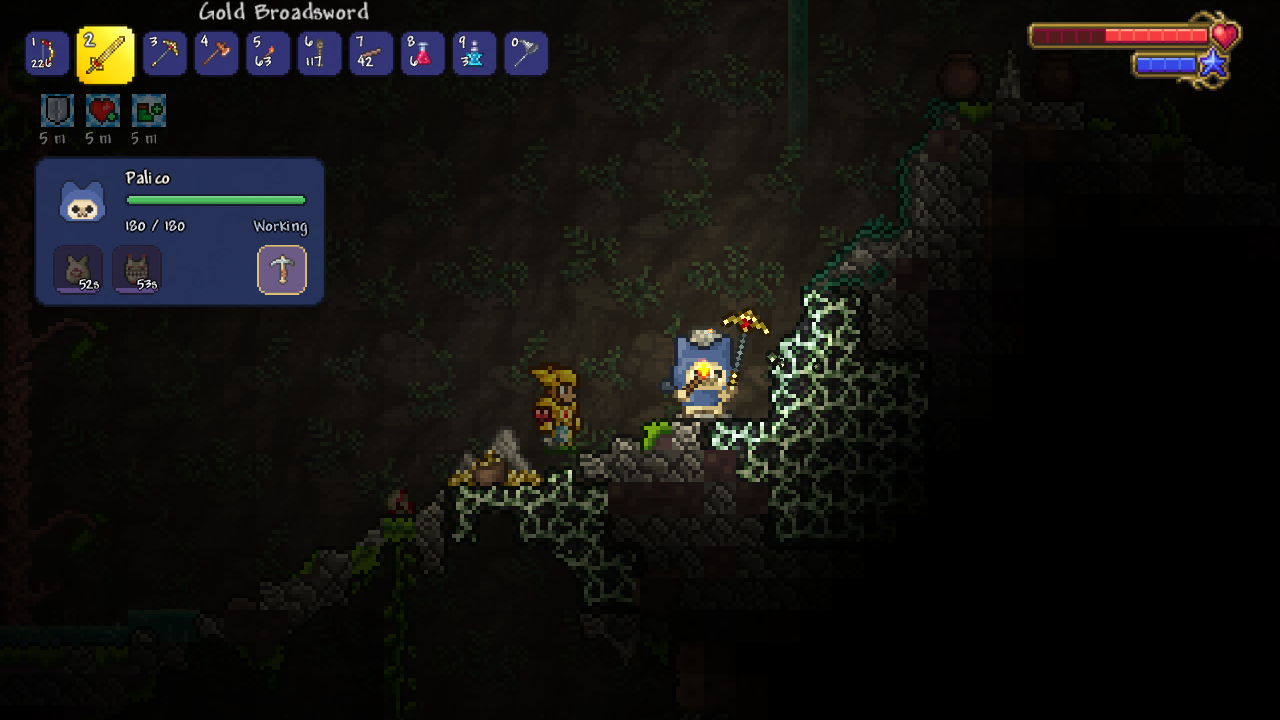
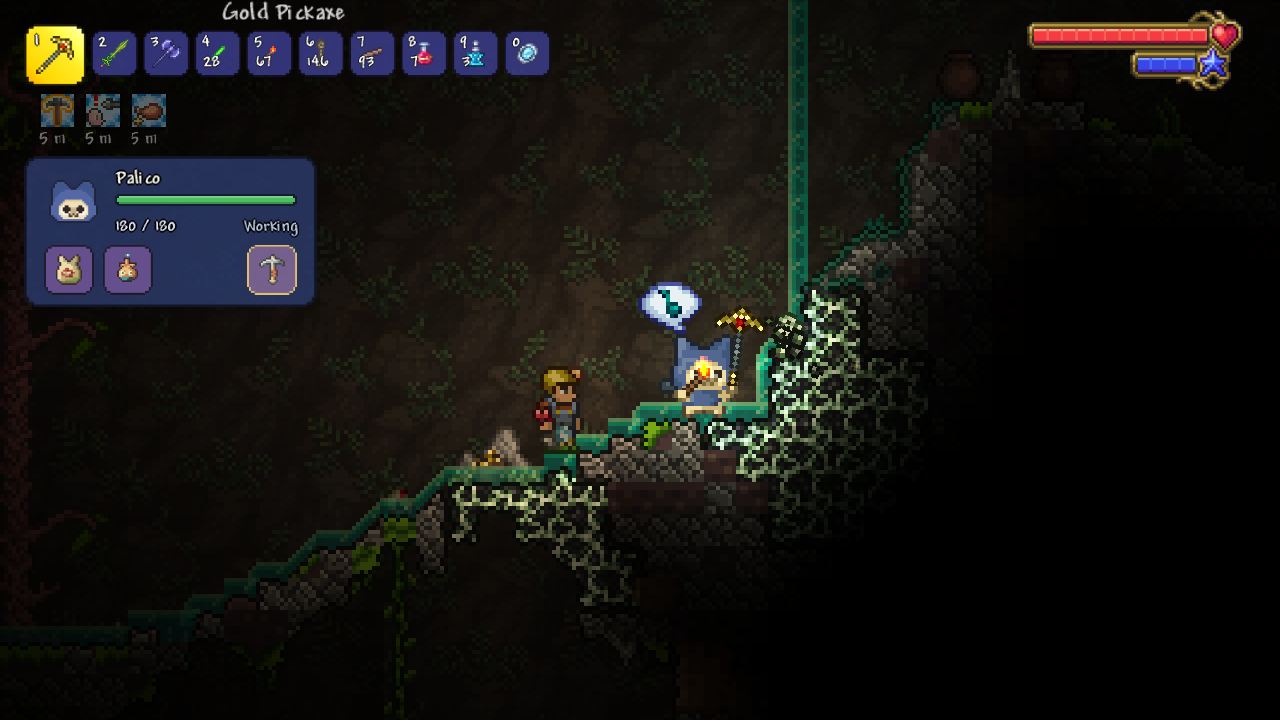
Refresh adventure screenshots in both READMEs

diff --git a/README.en.md b/README.en.md
@@ -12,9 +12,11 @@ A tModLoader mod inspired by Monster Hunter's Felynes. Give your Palico a weapon
 - **Equipment and inventory.** Save loadouts and let your companion carry supplies. Let it use selected chests to put items away alongside others of the same type and restock its supplies automatically.
 - **Your own Palico.** Choose a name, outfit color and dye. Your companion reacts to creatures and events, and remembers battles you've won together.
 
-![A player and Palico fighting together in the forest](docs/images/01-together-combat-en.png)
-
-![A Palico mining underground while holding a torch](docs/images/02-together-mining-en.png)
+| Fight side by side | Help underground |
+| --- | --- |
+| ![A player and Palico fighting together in the forest](docs/images/01-together-combat-en.png) | ![A Palico mining underground while holding a torch](docs/images/02-together-mining-en.png) |
+| **A well-earned head pat** | **A fishing trip** |
+| ![Petting your Palico at home](docs/images/03-together-petting-en.png) | ![A player and Palico fishing together by the ocean](docs/images/04-together-fishing-en.png) |
 
 ## Installation and first steps
 

diff --git a/README.md b/README.md
@@ -12,9 +12,11 @@
 - **装备与背包**：保存不同配装，携带补给和战利品。允许它使用指定箱子后，还能存放同类物品、补充消耗品。
 - **你的呆猫**：起名字、换衣服颜色、搭配染料。它会对遇到的怪物和事件作出反应，也会记住一起打赢的战斗。
 
-![玩家与呆猫在森林中并肩战斗](docs/images/01-together-combat-zh.png)
-
-![呆猫在地下举火把、协助采矿](docs/images/02-together-mining-zh.png)
+| 并肩战斗 | 下矿帮忙 |
+| --- | --- |
+| ![玩家与呆猫在森林中并肩战斗](docs/images/01-together-combat-zh.png) | ![呆猫在地下举火把、协助采矿](docs/images/02-together-mining-zh.png) |
+| **摸摸呆猫** | **一起钓鱼** |
+| ![在家里摸摸呆猫](docs/images/03-together-petting-zh.png) | ![玩家与呆猫在海边一起钓鱼](docs/images/04-together-fishing-zh.png) |
 
 ## 安装与上手
 
